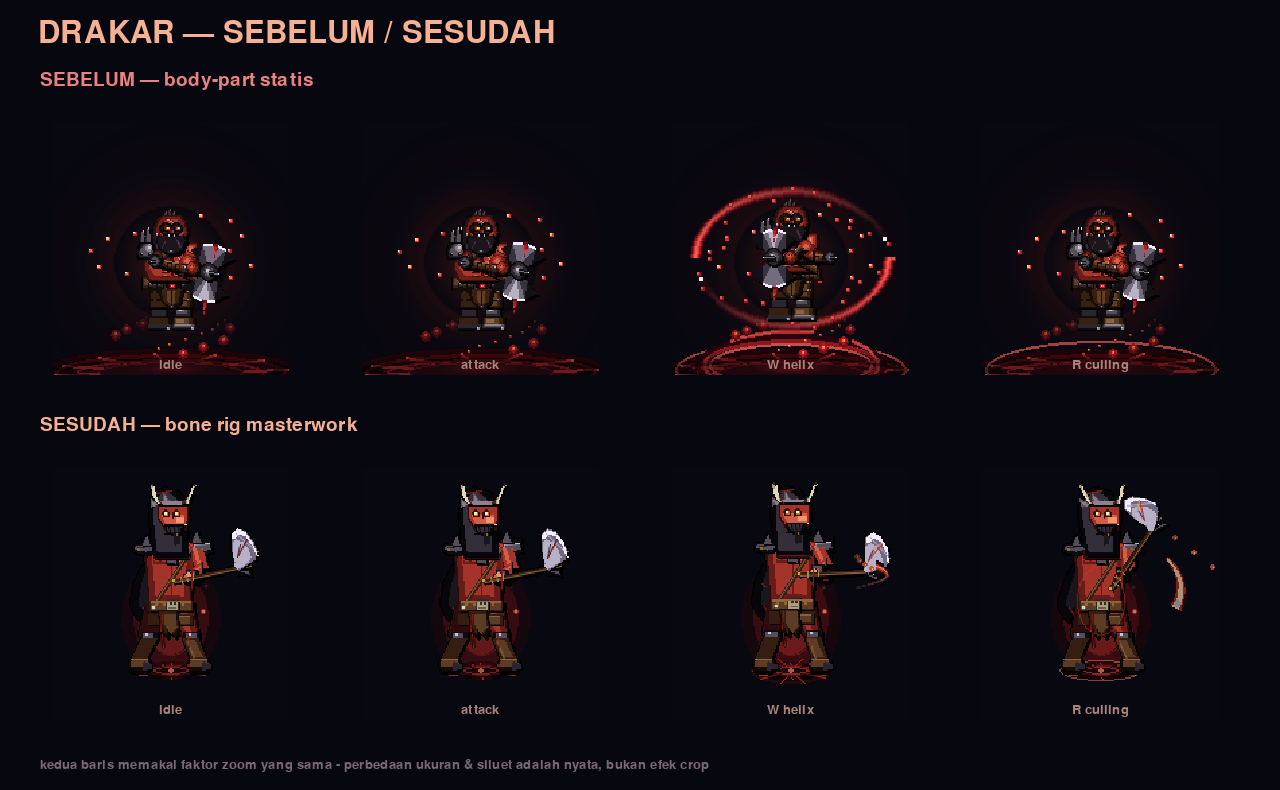
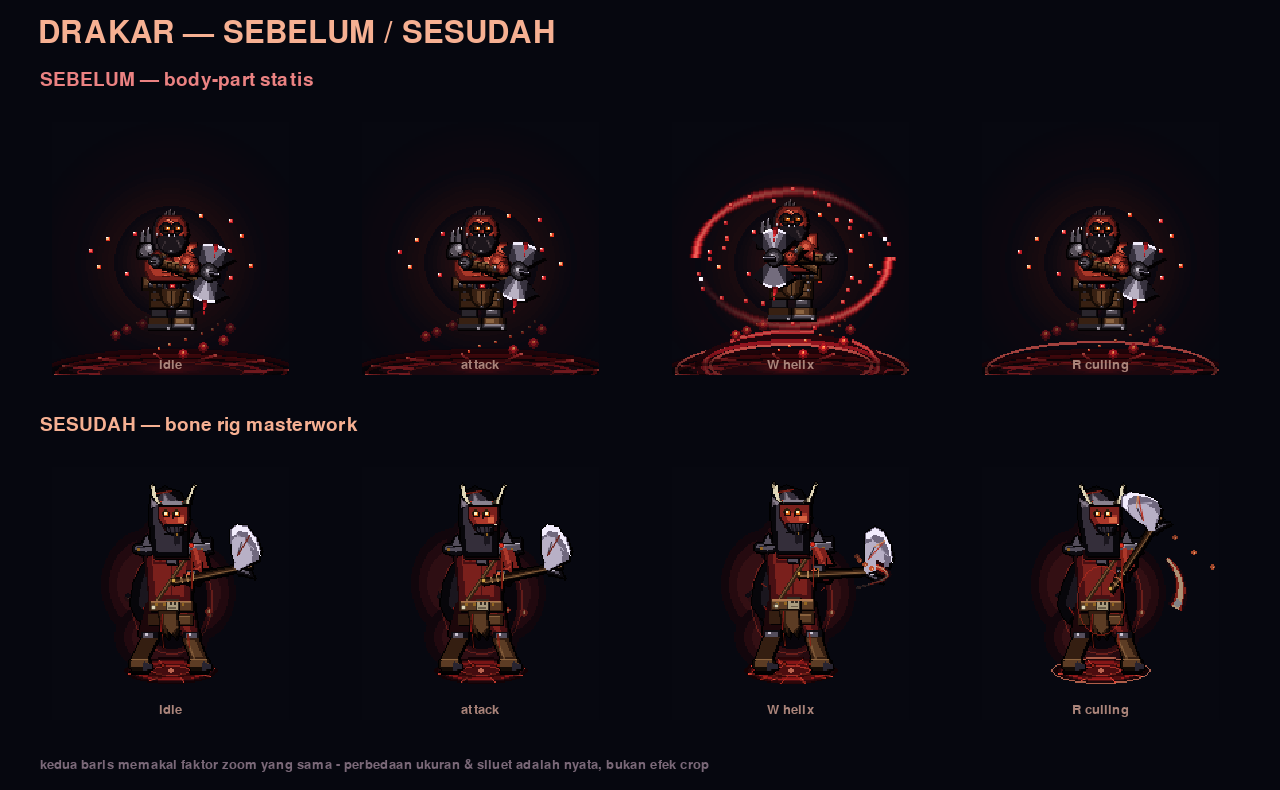
drakar: retune arah seni - mood Red Mist lama kembali di rig baru
Masukan: versi pertama rig terasa lebih jelek dari yang lama di skala
1x. Perbandingan jujur 1x menunjukkan rig baru benar secara anatomi
tapi kehilangan presence: kulit kearah pink, kabut merah nyaris tak
terlihat, kolam darah tipis, bara hilang.

- palet kulit digelapkan satu tingkat (dominan skin_dark/mid, terang
  hanya wedge sisi cahaya) - identitas merah gelap nan duri kembali
- kabut rage: lobus bergolak (4 gumpalan berfase) DIGAMBAR LANGSUNG ke
  layar dengan alpha lapis < 100 -> menumpuk tebal di arena seperti
  versi lama, tapi tidak pernah ikut terhitung badan padat oleh
  pengukuran skala hero (mask alpha>=100) - skala hero tetap 0.465
- inti gelap di dalam kabut menjaga siluet tetap POP
- kolam darah tanah: gelap penuh + rim menyala + 8 retakan rune
- bara orbit diperbanyak (13) dan diperbesar
- bilah kapak diperbesar ~18%, gagang ditebal, spike belakang lebih
  besar; buffer rig diperlebar (198x184, OX 99)

Regresi: test_drakar_masterwork 14/14, semua test masterwork tetangga
(gornak/morgath/vex/zephyr/grimjaw/kaizen/sylara/thorne) + hero HD +
swing tetap hijau.

diff --git a/bosses/level1.py b/bosses/level1.py
@@ -3864,13 +3864,13 @@ class _NS_drakar:
     # attack/4 stance skill, dua LOD) + margin 4 px (outline digambar di
     # luar buffer, jadi tidak dihitung). Dikunci oleh
     # tools/test_drakar_masterwork.py.
-    RIG_W, RIG_H = 184, 184
-    RIG_OX, RIG_OY = 93, 118
+    RIG_W, RIG_H = 198, 184
+    RIG_OX, RIG_OY = 99, 118
 
     # Bidang acuan pass cahaya TETAP di dalam buffer (alasan sama dengan
     # GRAD_BOX gornak: kalau ikut bbox, arah cahaya bergeser tiap ganti
     # pose dan terbaca sebagai lampu berkedip).
-    GRAD_BOX = (RIG_OX - 42, RIG_OY - 66, 88, 118)
+    GRAD_BOX = (RIG_OX - 46, RIG_OY - 66, 92, 118)
 
     # Durasi status skill (frame) - HARUS sama dengan active_skill_timer
     # yang diisi AI boss (bosses/base_boss.py: q=90 w=45 e=60 r=60) dan
@@ -3886,11 +3886,11 @@ class _NS_drakar:
 
     PALETTE = {
         # Kulit merah bata (cahaya dari depan-atas)
-        "skin_darkest": (46, 12, 14),
-        "skin_dark": (104, 28, 26),
-        "skin_mid": (164, 52, 42),
-        "skin_light": (210, 94, 70),
-        "skin_shine": (242, 148, 110),
+        "skin_darkest": (28, 7, 10),
+        "skin_dark": (72, 16, 19),
+        "skin_mid": (122, 32, 28),
+        "skin_light": (172, 56, 42),
+        "skin_shine": (216, 100, 66),
 
         # Rambut / jenggot hitam kebiruan
         "hair_darkest": (7, 6, 10),
@@ -4830,20 +4830,21 @@ class _NS_drakar:
         poly_free(p["skin_mid"], [pt(-12 + twist, sh + 1),
                                   pt(11 + twist, sh + 1), pt(9, -2),
                                   pt(-10, -2)], outline=False)
-        # Blok cahaya di bahu-dada (satu bentuk besar, bukan garis halus)
-        poly_free(p["skin_light"], [pt(-11 + twist, sh + 1),
-                                    pt(8 + twist, sh + 1), pt(6, sh + 8),
-                                    pt(-10, sh + 7)], outline=False)
-        poly_free(p["skin_shine"], [pt(-9 + twist, sh + 2),
-                                    pt(4 + twist, sh + 2), pt(3, sh + 6),
-                                    pt(-8, sh + 6)], outline=False)
+        # Nilai dominan gelap; terang hanya wedge kecil sisi cahaya -
+        # kulit pink terang dulu membuat badan kehilangan mood nan duri.
+        poly_free(p["skin_light"], [pt(2 + twist, sh + 1),
+                                    pt(9 + twist, sh + 1), pt(6, sh + 6),
+                                    pt(1, sh + 6)], outline=False)
+        poly_free(p["skin_shine"], [pt(4 + twist, sh + 2),
+                                    pt(7 + twist, sh + 2), pt(5, sh + 5),
+                                    pt(4, sh + 5)], outline=False)
         # Bayangan miring di bawah pektoral + highlight mikro: dua nilai
         # ini yang membuat dada terbaca BERBUKUK.
         poly_free(p["skin_dark"], [pt(-11 + twist, sh + 8),
                                    pt(-1 + twist, sh + 9),
                                    pt(-2 + twist, sh + 11),
                                    pt(-11 + twist, sh + 10)], outline=False)
-        _NS_drakar._aaline(surface, p["skin_shine"],
+        _NS_drakar._aaline(surface, p["skin_light"],
                            pt(-9 + twist, sh + 5), pt(-2 + twist, sh + 5), 1)
         # Garis tengah + otot perut (nilai, bukan outline)
         _NS_drakar._aaline(surface, p["skin_dark"], pt(twist, sh + 4),
@@ -5049,12 +5050,12 @@ class _NS_drakar:
         # membaca sebagai "helm berkaca/visor"). Focal point = DUA mata
         # amber besar dengan cavum kecil per mata - bukan satu halo
         # tengah yang melebur jadi pita.
-        poly_free(p["skin_light"], [pt(hx - 7, hy + 1), pt(hx + 8, hy + 1),
-                                    pt(hx + 8, hy + 7), pt(hx - 3, hy + 8)],
+        poly_free(p["skin_light"], [pt(hx - 6, hy + 1), pt(hx + 8, hy + 1),
+                                    pt(hx + 8, hy + 7), pt(hx - 2, hy + 8)],
                   outline=False)
-        poly_free(p["skin_shine"], [pt(hx + 3, hy + 3), pt(hx + 8, hy + 3),
+        poly_free(p["skin_shine"], [pt(hx + 4, hy + 3), pt(hx + 8, hy + 3),
                                     pt(hx + 8, hy + 6),
-                                    pt(hx + 3, hy + 6)], outline=False)
+                                    pt(hx + 4, hy + 6)], outline=False)
         blink = ((phase * 0.6) % 4.2) < 0.16
         if not blink:
             # Urutan PENTING: halo dulu (glow latar), baru blok mata
@@ -5195,8 +5196,8 @@ class _NS_drakar:
 
         L = _NS_drakar._axe_len(action)
         # ── Gagang: dari pommel sampai lewat mata kapak
-        poly(p["leather_darkest"], [hpt(-9, -1.4), hpt(L + 2, -1.2),
-                                         hpt(L + 2, 1.2), hpt(-9, 1.4)])
+        poly(p["leather_darkest"], [hpt(-10, -2.1), hpt(L + 2, -1.7),
+                                         hpt(L + 2, 1.7), hpt(-10, 2.1)])
         poly(p["leather_dark"], [hpt(-8, -0.9), hpt(L + 2, -0.7),
                                       hpt(L + 2, 0.7), hpt(-8, 0.9)],
                   outline=False)
@@ -5228,17 +5229,17 @@ class _NS_drakar:
         #    daun putih kecil.
         b0 = su - 2
         blade = [
-            (b0, 1.8),            # pangkal bawah socket
-            (b0 + 2, 5),          # leher
-            (b0 + 1, 14),         # jenggar ke bawah (beard)
-            (b0 + 3, 23),         # ujung jenggot
-            (b0 + 7, 26),         # busur bawah
-            (b0 + 12, 23),        # sisi muka
-            (b0 + 16, 15),        # busur depan
-            (b0 + 17, 8),         # tanduk atas
-            (b0 + 14, 3),         # atas
-            (b0 + 8, 0.5),        # duduk di gagang
-            (b0 + 2, -1.4),       # pangkal atas
+            (b0, 2.2),            # pangkal bawah socket
+            (b0 + 2, 6),          # leher
+            (b0 + 1, 16),         # jenggar ke bawah (beard)
+            (b0 + 3, 26),         # ujung jenggot
+            (b0 + 8, 29),         # busur bawah
+            (b0 + 14, 26),        # sisi muka
+            (b0 + 18, 17),        # busur depan
+            (b0 + 19, 9),         # tanduk atas
+            (b0 + 16, 3),         # atas
+            (b0 + 9, 0.5),        # duduk di gagang
+            (b0 + 2, -1.6),       # pangkal atas
         ]
         poly_pts = [hpt(u, v) for u, v in blade]
         _NS_drakar._poly(surface, p["shadow_deep"],
@@ -5257,16 +5258,16 @@ class _NS_drakar:
         # SISI PEMOTONG: pita shine menempel busur luar (dari tanduk
         # atas sampai ujung jenggot) - dulu lapisan terang justru
         # menumpuk di dekat socket sehingga bilah terbaca kecil & redup.
-        edge_out = [(b0 + 3, 22.5), (b0 + 7, 25.6), (b0 + 12, 22.6),
-                    (b0 + 15.6, 15.4), (b0 + 16.6, 8.4)]
-        edge_in = [(u, v - 3.4) for (u, v) in edge_out]
+        edge_out = [(b0 + 3, 25.0), (b0 + 8, 28.5), (b0 + 14, 25.5),
+                    (b0 + 17.6, 17.0), (b0 + 18.6, 9.2)]
+        edge_in = [(u, v - 3.8) for (u, v) in edge_out]
         _NS_drakar._poly(surface, p["blade_shine"],
                          [hpt(u, v) for (u, v) in edge_out + edge_in[::-1]])
         # Garis kecerunan dari shine ke badan (anti-"stiker putih")
         _NS_drakar._aaline(surface, p["blade_light"],
                            hpt(b0 + 15.4, 10), hpt(b0 + 5.4, 22.6), 1)
         # Alur darah di bilah - menyala saat hot
-        groove = [hpt(b0 + 3, 7), hpt(b0 + 7, 15), hpt(b0 + 12, 18)]
+        groove = [hpt(b0 + 3, 8), hpt(b0 + 8, 17), hpt(b0 + 14, 20)]
         ga = _NS_drakar._alpha(90 + 165 * (1.0 if hot else 0.15) *
                                (0.75 + 0.25 * math.sin(phase * 2.6)))
         _NS_drakar._aaline(surface, p["blade_dark"], groove[0], groove[1], 1)
@@ -5276,9 +5277,9 @@ class _NS_drakar:
             _NS_drakar._aaline(surface, (*p["blood_hot"], ga), groove[1],
                                groove[2], 1)
         # Spike belakang (-v): pembacaan "senjata berat, dua arah"
-        poly(p["armor_darkest"], [hpt(b0 + 1, -1.5), hpt(b0 + 9, -3.5),
-                                       hpt(b0 + 10, -7), hpt(b0 + 5, -4.5),
-                                       hpt(b0 + 1, -3)])
+        poly(p["armor_darkest"], [hpt(b0 + 1, -1.8), hpt(b0 + 10, -4),
+                                       hpt(b0 + 11, -8), hpt(b0 + 5, -5),
+                                       hpt(b0 + 1, -3.4)])
         poly(p["armor_mid"], [hpt(b0 + 2, -2), hpt(b0 + 8, -4),
                                    hpt(b0 + 8.5, -6)], outline=False)
 
@@ -5300,8 +5301,8 @@ class _NS_drakar:
         _NS_drakar._aaline(surface, col, pt(-10, hy - 13), pt(0, hy - 15), 1)
         # Tepi pelat dada & sabuk
         _NS_drakar._aaline(surface, col, pt(14, sh + 1), pt(14, -8), 1)
-        _NS_drakar._aaline(surface, (*p["blood_hot"], a), pt(-13, 1),
-                           pt(13, 1), 1)
+        _NS_drakar._aaline(surface, (*p["blood_hot"], min(255, a + 30)),
+                           pt(-13, 1), pt(13, 1), 1)
         # Garis cahaya di lutut & ujung boot
         for sx in (-6, 11):
             _NS_drakar._aaline(surface, col, pt(sx, 24), pt(sx + 1, 32), 1)
@@ -5406,82 +5407,119 @@ class _NS_drakar:
         surface.blit(sh, (int(x) - bw // 2, int(y) - bh // 2))
 
     def _draw_rage_aura(surface, x, y, phase, skill):
-        """Cahaya merah MENEMPEL badan + bara mengorbit siluet.
+        """KABUT MERAH - identitas "The Might of the Red Mist".
 
-        Kabut rage lama adalah titik-titik merah acak yang berserakan
-        sampai ke luar frame. Sekarang: cakram glow rapat ke badan
-        (dibaca sebagai aura, bukan noise) + bara naik dengan orbit
-        deterministik di sekitar siluet.
+        Kabut digambar LANGSUNG ke surface dalam beberapa LOBUS yang
+        bergeser mengikuti fase (bukan satu oval geometris) supaya
+        terbaca sebagai kabut yang bergolak. Alpha tiap lapis < 100:
+        menumpuk tebal di layar, tapi di canvas SRCALPHA (pengukuran
+        skala hero) tidak pernah ikut terhitung badan padat.
         """
         p = _NS_drakar.PALETTE
         pulse = 1.0 if skill else math.sin(phase * 0.7) * 0.25 + 0.72
         K = _NS_drakar.SCALE
-        glow = pygame.Surface((int(88 * K), int(104 * K)), pygame.SRCALPHA)
-        cx, cy = int(44 * K), int(56 * K)
-        for rx, ry, col, a in ((int(34 * K), int(42 * K), "mist_darkest", 100),
-                               (int(26 * K), int(34 * K), "mist_dark", 120),
-                               (int(18 * K), int(25 * K), "mist_mid", 140)):
-            _NS_drakar._ellipse(glow, (*p[col], _NS_drakar._alpha(a * pulse)),
-                                (cx - rx, cy - ry, rx * 2, ry * 2))
-        _NS_drakar._ellipse(glow, (*p["mist_light"],
-                                   _NS_drakar._alpha(66 * pulse)),
-                            (cx - int(18 * K), cy - int(25 * K),
-                             int(36 * K), int(50 * K)), 1)
-        surface.blit(glow, (int(x) - cx, int(y) - cy + 8))
 
-        n = 6
+        # ── Lobus kabut bergolak: 4 gumpalan besar yang naik-turun &
+        #    bergeser dengan fase sendiri (organik, bukan kapsul)
+        lobes = ((-20, -18, 30, 38, 0.0), (16, -10, 28, 34, 1.7),
+                 (-4, 22, 32, 26, 3.1), (2, -44, 22, 20, 4.4))
+        for bx, by, rx, ry, seed in lobes:
+            dx = int(math.sin(phase * 0.8 + seed) * 4)
+            dy = int(math.sin(phase * 0.62 + seed * 1.3) * 3)
+            for k, (col, a) in enumerate((("mist_darkest", 85),
+                                          ("mist_dark", 72),
+                                          ("mist_mid", 62))):
+                shrink = 1 - k * 0.18
+                rxk, ryk = int(rx * K * shrink), int(ry * K * shrink)
+                _NS_drakar._ellipse(
+                    surface, (*p[col], _NS_drakar._alpha(a * pulse)),
+                    (int(x) + int(bx * K) + dx - rxk,
+                     int(y) + int(by * K) + dy - ryk, rxk * 2, ryk * 2))
+
+        # ── Inti gelap: siluet badan tetap POP dari kabutnya sendiri
+        _NS_drakar._ellipse(surface, (14, 2, 5, _NS_drakar._alpha(92 * pulse)),
+                            (int(x) - int(26 * K), int(y) - int(40 * K),
+                             int(52 * K), int(70 * K)))
+        # Rim menyala mengelilingi inti
+        _NS_drakar._ellipse(surface, (*p["mist_mid"],
+                                      _NS_drakar._alpha(92 * pulse)),
+                            (int(x) - int(26 * K), int(y) - int(40 * K),
+                             int(52 * K), int(70 * K)), 2)
+        _NS_drakar._ellipse(surface, (*p["mist_light"],
+                                      _NS_drakar._alpha(88 * pulse)),
+                            (int(x) - int(28 * K), int(y) - int(42 * K),
+                             int(56 * K), int(74 * K)), 1)
+
+        # ── Bara orbit: presence versi lama, alpha rendah
+        n = 13
         for i in range(n):
             t = ((phase * 0.33 + i / n) % 1.0)
             ang = t * math.tau
-            r = _NS_drakar._s(21) + int(math.sin(phase * 1.3 + i * 2) * 3)
-            sx = x + int(math.cos(ang) * r * 1.22)
-            sy = y + 4 - int(t * 22)
-            a = _NS_drakar._alpha(130 * (1 - t) + 60 *
+            r = _NS_drakar._s(24) + int(math.sin(phase * 1.3 + i * 2) * 4)
+            sx = int(x) + int(math.cos(ang) * r * 1.3)
+            sy = int(y) + 6 - int(t * 32)
+            a = _NS_drakar._alpha(110 * (1 - t) + 50 *
                                   math.sin(phase * 3 + i))
             if a <= 0:
                 continue
-            _NS_drakar._aacircle(surface, (*p["blood_mid"], a), (sx, sy), 2)
+            rad = 3 if i % 3 == 0 else 2
+            _NS_drakar._aacircle(surface, (*p["blood_mid"], a), (sx, sy), rad)
             _NS_drakar._aacircle(surface, (*p["blood_hot"], a), (sx, sy), 1)
+            if i % 3 == 0:
+                _NS_drakar._rect_st(surface, (*p["blood_shine"], a),
+                                    (sx, sy - 2, 1, 3))
 
     def _draw_ground_ring(surface, x, y, phase, skill):
-        """Cincin rune merah di bawah kaki - seukuran telapak, TAPI
-        terang (keluarga hero masterwork punya cincin yang jelas)."""
+        """Kolam darah + cincin rune di bawah kaki - gelap penuh dengan
+        rim menyala (jangkar visual boss, mood versi lama)."""
         p = _NS_drakar.PALETTE
         pulse = math.sin(phase * 1.1) * 0.25 + 0.75
         gy = y + _NS_drakar.GROUND_DY
         bright = 1.15 if skill else 0.95
-        rw, rh = _NS_drakar._s(24), _NS_drakar._s(6)
+        # Kolam gelap penuh (bukan ring) - jangkar visual boss
+        rw, rh = _NS_drakar._s(32), _NS_drakar._s(9)
+        _NS_drakar._ellipse(surface,
+                            (20, 2, 4, _NS_drakar._alpha(230 * pulse * bright)),
+                            (x - rw, gy - rh, rw * 2, rh * 2))
         _NS_drakar._ellipse(surface,
                             (*p["rune_dark"],
+                             _NS_drakar._alpha(210 * pulse * bright)),
+                            (x - rw + 3, gy - rh + 1, rw * 2 - 6,
+                             rh * 2 - 2))
+        # Kabut darah di atas kolam
+        rw3, rh3 = _NS_drakar._s(27), _NS_drakar._s(7)
+        _NS_drakar._ellipse(surface,
+                            (*p["mist_dark"],
                              _NS_drakar._alpha(150 * pulse * bright)),
-                            (x - rw, gy - rh, rw * 2, rh * 2), 2)
-        rw2, rh2 = _NS_drakar._s(16), _NS_drakar._s(4)
+                            (x - rw3, gy - rh3, rw3 * 2, rh3 * 2))
+        # Rim menyala + retakan rune
+        rw2, rh2 = _NS_drakar._s(25), _NS_drakar._s(6)
         _NS_drakar._ellipse(surface,
                             (*p["rune_mid"],
-                             _NS_drakar._alpha(140 * pulse * bright)),
-                            (x - rw2, gy - rh2, rw2 * 2, rh2 * 2), 1)
-        t0, t1 = _NS_drakar._s(20), _NS_drakar._s(26)
-        ty0, ty1 = _NS_drakar._s(5), _NS_drakar._s(6)
-        for i in range(6):
-            ang = phase * 0.4 + i * math.tau / 6
+                             _NS_drakar._alpha(210 * pulse * bright)),
+                            (x - rw2, gy - rh2, rw2 * 2, rh2 * 2), 2)
+        t0, t1 = _NS_drakar._s(23), _NS_drakar._s(31)
+        ty0, ty1 = _NS_drakar._s(5), _NS_drakar._s(8)
+        for i in range(8):
+            ang = phase * 0.4 + i * math.tau / 8
             _NS_drakar._aaline(
                 surface,
-                (*p["rune_light"], _NS_drakar._alpha(170 * pulse * bright)),
+                (*p["rune_light"], _NS_drakar._alpha(220 * pulse * bright)),
                 (x + int(math.cos(ang) * t0), gy + int(math.sin(ang) * ty0)),
                 (x + int(math.cos(ang) * t1), gy + int(math.sin(ang) * ty1)),
                 1)
-        irw, irh = _NS_drakar._s(12), _NS_drakar._s(3)
+        irw, irh = _NS_drakar._s(14), _NS_drakar._s(4)
         _NS_drakar._ellipse(surface,
                             (*p["rune_light"],
-                             _NS_drakar._alpha(150 * pulse * bright)),
+                             _NS_drakar._alpha(190 * pulse * bright)),
                             (x - irw, gy - irh, irw * 2, irh * 2), 1)
         _NS_drakar._aacircle(surface, (*p["rune_shine"],
-                                       _NS_drakar._alpha(200 * pulse)),
+                                       _NS_drakar._alpha(230 * pulse)),
                              (int(x), int(gy)), 2)
         if skill in ("e", "r"):
-            ew, eh = _NS_drakar._s(28), _NS_drakar._s(7)
+            ew, eh = _NS_drakar._s(34), _NS_drakar._s(9)
             _NS_drakar._ellipse(
-                surface, (*p["rune_shine"], _NS_drakar._alpha(120 * pulse)),
+                surface, (*p["rune_shine"], _NS_drakar._alpha(170 * pulse)),
                 (x - ew, gy - eh, ew * 2, eh * 2), 1)
 
     def _draw_footfall_dust(surface, x, y, facing, phase):

diff --git a/README.md b/README.md
@@ -429,7 +429,9 @@ Diukur dari render (alpha>=100), yang salah waktu itu:
 
 | | sebelum | sesudah | catatan |
 |---|---|---|---|
-| bbox solid idle | **190 x 138 px** | **99 x 147 px** | bbox lama menggelembung oleh puluhan partikel darah acak yang berserakan; badan aslinya blob kotak kecil. Baru: rapat badan, peringkat boss terbesar level 1 terjaga |
+| bbox solid idle | **190 x 138 px** | **104 x 150 px** | bbox lama menggelembung oleh puluhan partikel darah acak yang berserakan; badan aslinya blob kotak kecil. Baru: rapat badan, peringkat boss terbesar level 1 terjaga |
+| mood "Red Mist" | kabut merah tebal + bara beterbangan (bagus - dipertahankan) | **kabut lobus bergolak digambar langsung ke layar (alpha lapis < 100: tebal di arena, tidak pernah ikut terhitung badan padat)** + bara orbit + kolam darah gelap ber-rim menyala | presence lama kembali tanpa partikel acak yang menggelembungkan bbox |
+| kulit | merah terang kehitaman di sisi gelap (bagus - dipertahankan) | palet gelap nan duri: dominan `skin_dark/mid`, terang hanya wedge kecil sisi cahaya | tidak lagi terbaca pink |
 | kapak | poligon "kertas" melayang di samping tangan statis | **greataxe dua tangan**: kedua pergelangan lahir dari titik DI GAGANG (`_back_hand_u`), sudut dari tabel pose `_axe_angle` | kapak tidak pernah lepas dari tangan di semua pose |
 | pose | idle/walk/attack hampir identik | rest -> wind-up -> **cleave + impact hold** -> recovery; Q/W/E/R masing-masing stance sendiri | kurva `_attack_curve`: anticipation -> swing cepat -> HOLD -> rebound |
 | pita cleave | tidak ada | **lahir dari MATA KAPAK** (lintasan `_axe_head_local`) | senjata terbaca mengayun, bukan efek tempel |
